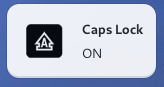
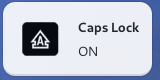
screenshots were rescaled

diff --git a/README.md b/README.md
@@ -5,4 +5,7 @@ Add the <em>kbled-indicator-daemon<em> script to your startup and it will act as
 
 # screenshot:
 
-<img src="/screenshots/scr.png" alt="Screenshot"><img src="/screenshots/scr1.png" alt="Screenshot"><img src="/screenshots/scr2.png" alt="Screenshot"><img src="/screenshots/scr3.png" alt="Screenshot">
+<img src="/screenshots/scr.png" style="width:160px;height:80px" alt="Screenshot">
+<img src="/screenshots/scr1.png" style="width:160px;height:80px" alt="Screenshot">
+<img src="/screenshots/scr2.png" style="width:160px;height:80px" alt="Screenshot">
+<img src="/screenshots/scr3.png" style="width:160px;height:80px" alt="Screenshot">
